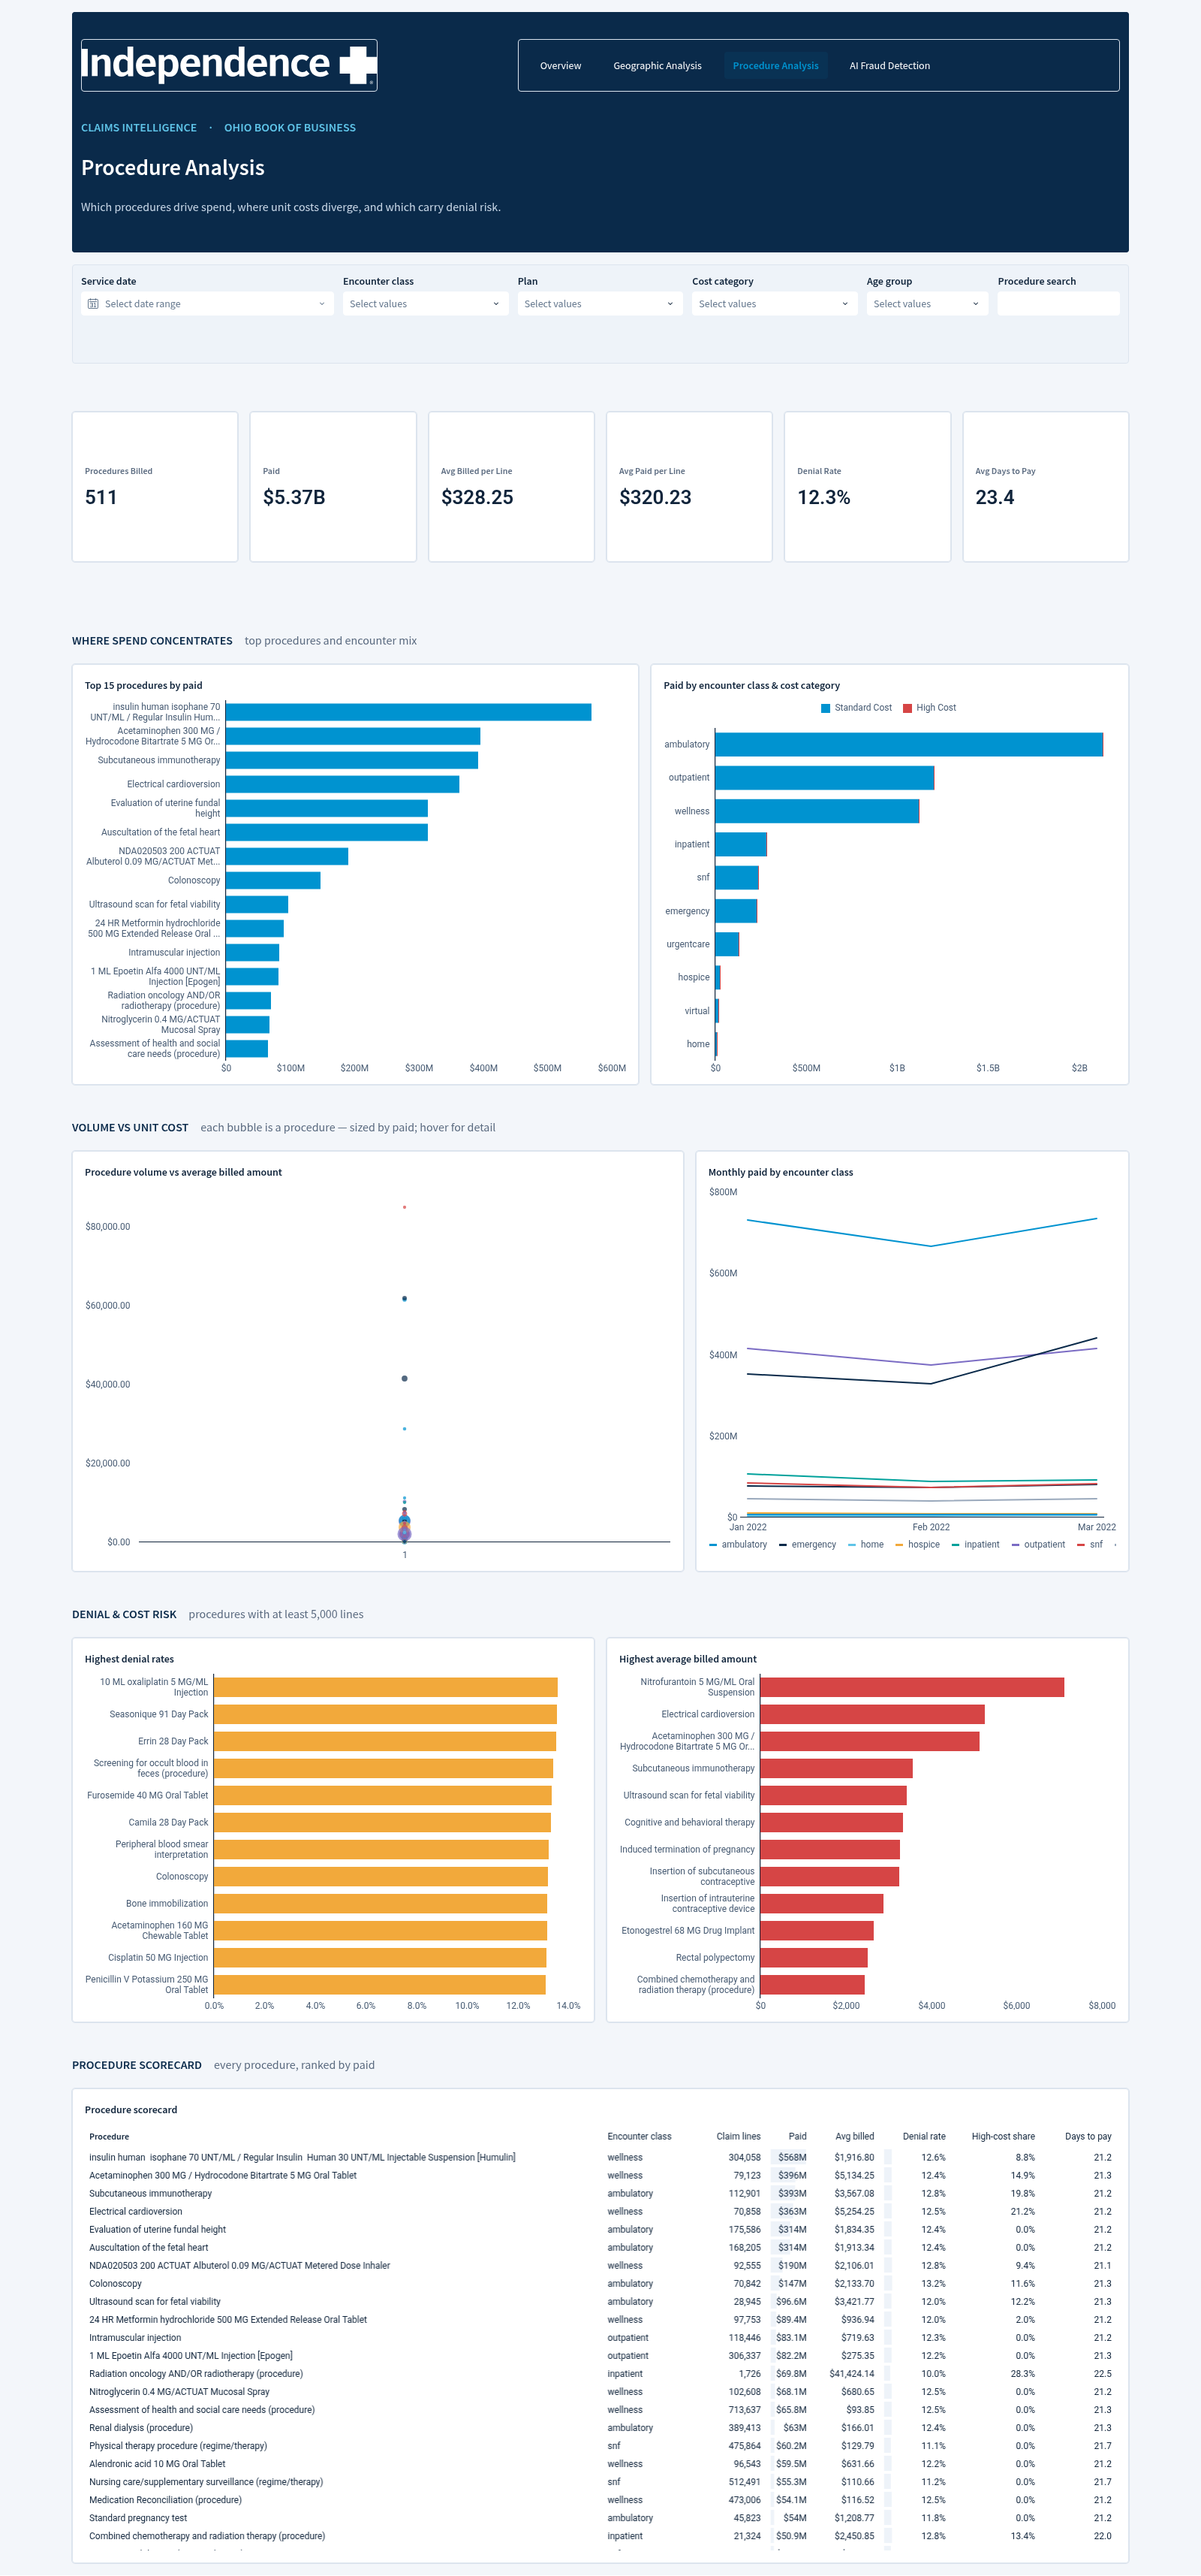
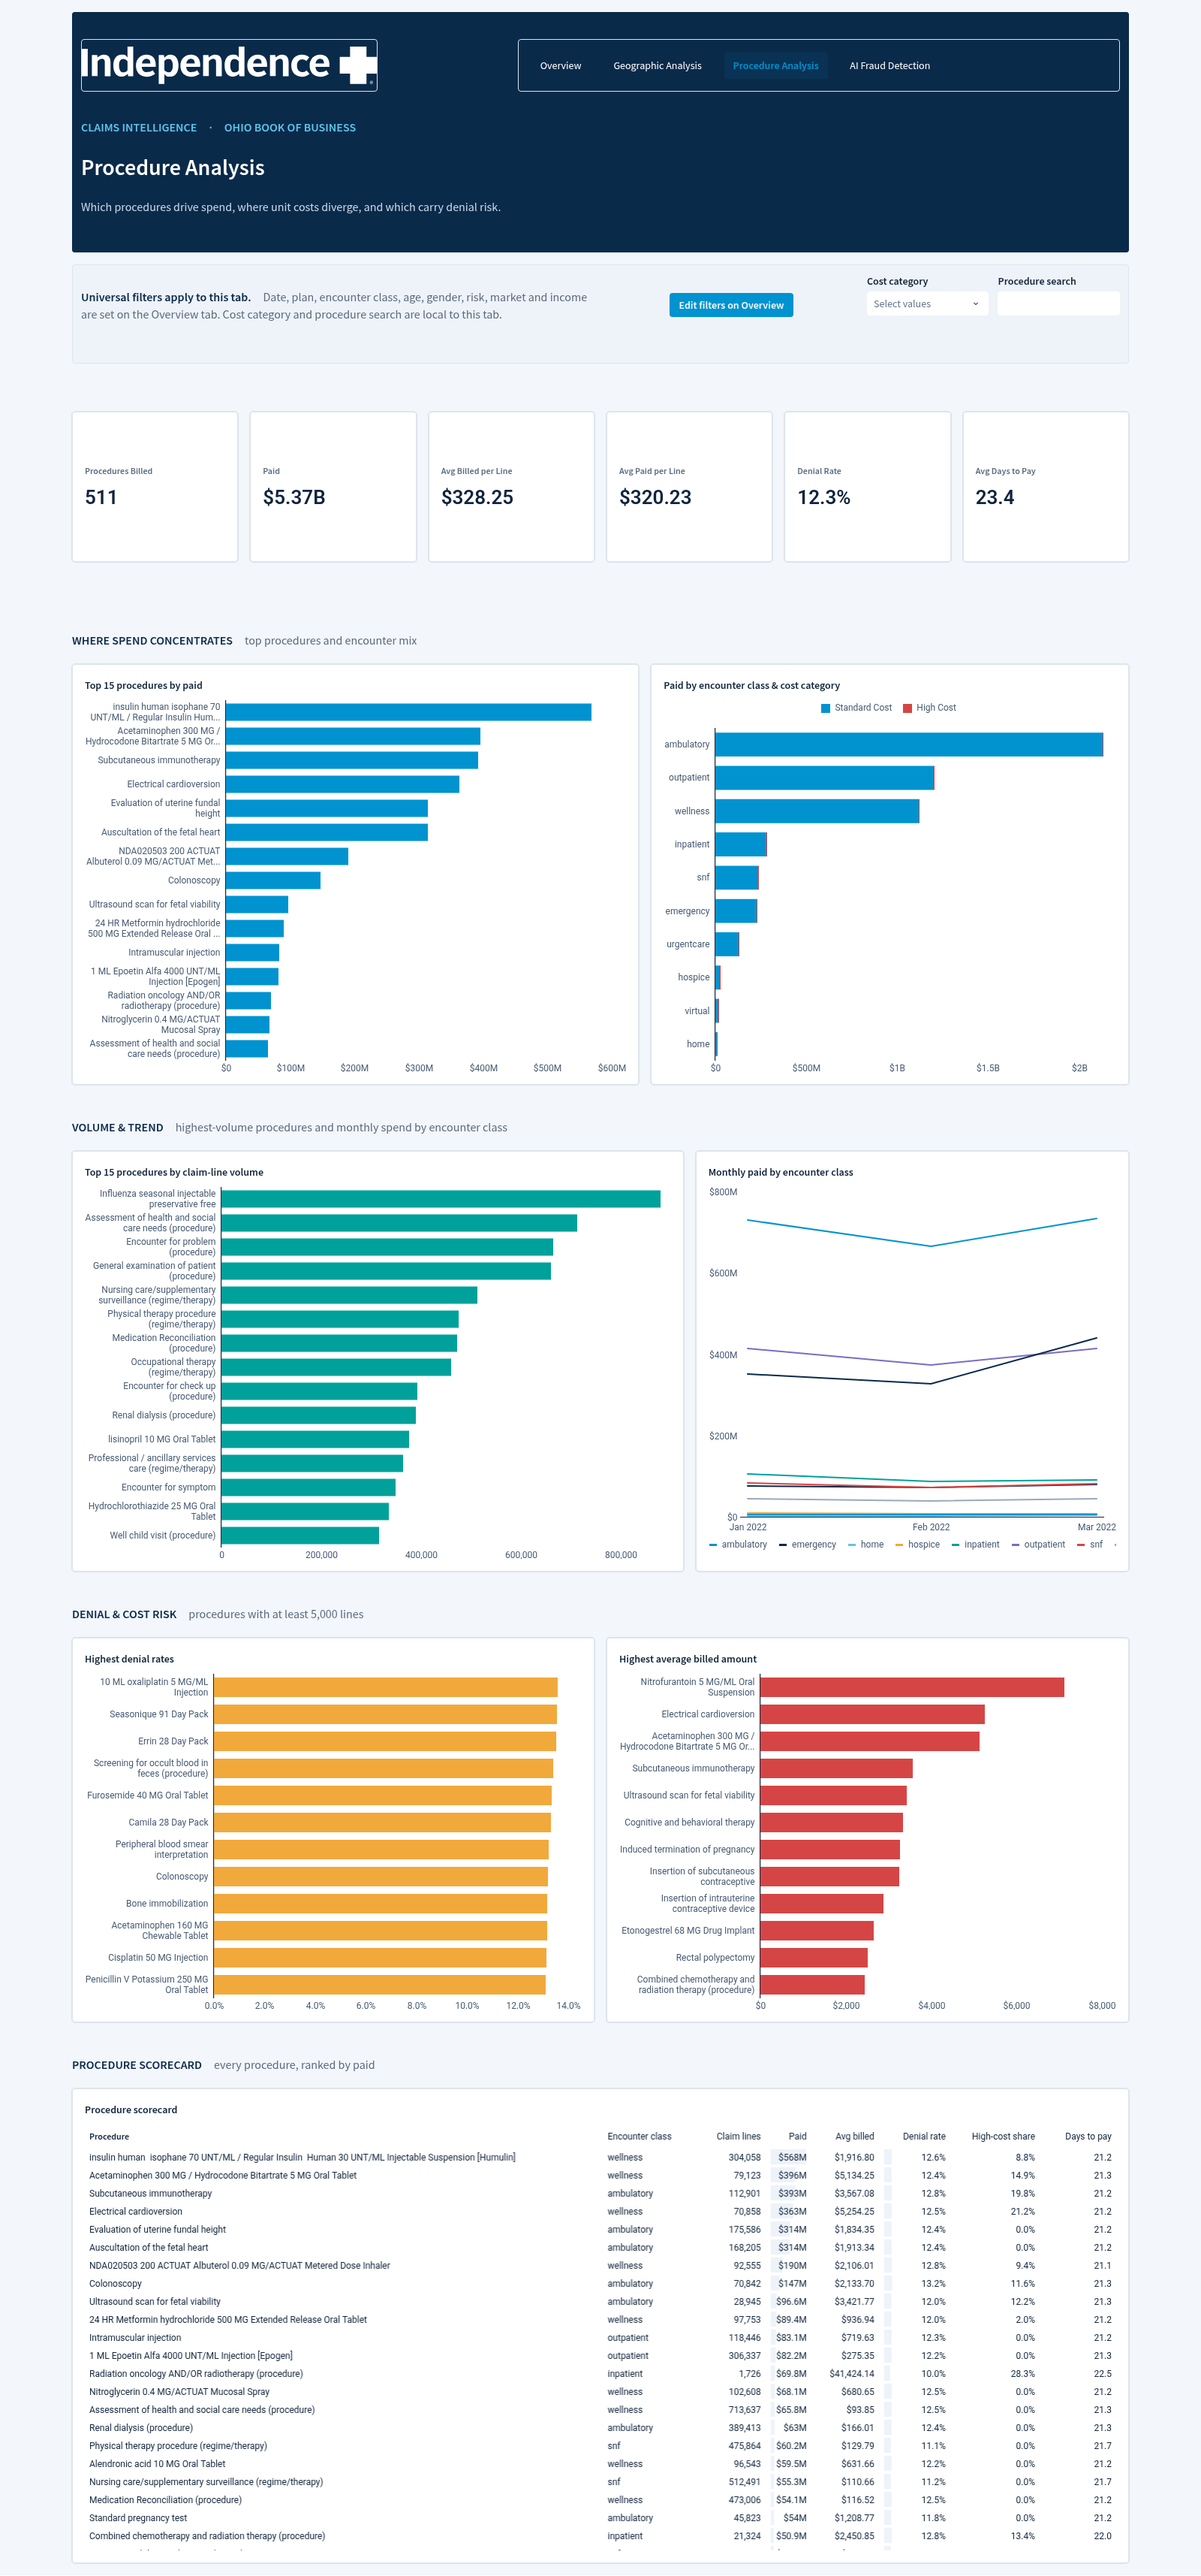
Make Overview filters universal across all tabs
Claude-Session: https://claude.ai/code/session_01UPp2bGsdh8tCcg418XPY5Y

diff --git a/ibx/build_ibx.py b/ibx/build_ibx.py
@@ -416,17 +416,41 @@ def place(node, r0, r1):
     return node
 
 
+
+def univ(key):
+    """A universal filter targets the same dimension on every page-scoped table."""
+    return [("t-ov", "o_" + key), ("t-geo", "g_" + key), ("t-proc", "p_" + key), ("t-fr", "f_" + key)]
+
+
+def local_bar(n, note, extra=(), rows=(13, 18)):
+    """Non-Overview tabs: universal filters live on Overview; show a pointer + page-local controls."""
+    add(text("note-%d" % n, '<span style="color:%s">**Universal filters apply to this tab.**</span>　<span style="color:%s">'
+             'Date, plan, encounter class, age, gender, risk, market and income are set on the Overview tab. %s</span>' % (NAVY, MUTED, note),
+             verticalAlign="center"))
+    add(button("b-edit-filters-%d" % n, "Edit filters on Overview", [{"effect": "navigate", "target": {"type": "page", "page": PG_OV}}],
+               bg=BLUE))
+    kids = [(None, "note-%d" % n, 1, 13, 1, 5), (None, "b-edit-filters-%d" % n, 13, 19 if extra else 25, 1, 5)]
+    add(container("flt-%d" % n, bg=CARD_ALT))
+    out = [el("note-%d" % n, 1, 13, 1, 5), el("b-edit-filters-%d" % n, 13, 19 if extra else 25, 1, 5)]
+    for ctl, c0, c1, r0, r1 in extra:
+        CTL.append(ctl)
+        out.append(el(ctl["id"], c0, c1, r0, r1))
+    return place(box("flt-%d" % n, 1, 25, 0, 0, out), *rows)
+
 # ====================================================================== PAGE 1 -- Overview
 def page_overview():
-    nodes = [header(1, "Claims Overview", "Spend, utilization and denials across Independence's Ohio membership — filter once, everything responds.")]
+    nodes = [header(1, "Claims Overview", "Spend, utilization and denials across Independence's Ohio membership — these filters drive every tab.")]
     T, S = OV, "t-ov"
+    S0 = "t-ov"
     ctls = [
-        (ctl_date("c-ov-date", "ov_date", "Service date", [(S, "o_sdate")]), 1, 7, 1, 5),
-        (ctl_list("c-ov-plan", "ov_plan", "Plan", S, "o_plan", [(S, "o_plan")]), 7, 11, 1, 5),
-        (ctl_list("c-ov-class", "ov_class", "Encounter class", S, "o_eclass", [(S, "o_eclass")]), 11, 15, 1, 5),
-        (ctl_list("c-ov-age", "ov_age", "Age group", S, "o_ageg", [(S, "o_ageg")]), 15, 19, 1, 5),
-        (ctl_list("c-ov-gender", "ov_gender", "Gender", S, "o_gender", [(S, "o_gender")]), 19, 22, 1, 5),
-        (ctl_list("c-ov-risk", "ov_risk", "Risk score", S, "o_risk", [(S, "o_risk")]), 22, 25, 1, 5),
+        (ctl_date("c-ov-date", "ov_date", "Service date", univ("sdate")), 1, 6, 1, 5),
+        (ctl_list("c-ov-plan", "ov_plan", "Plan", S0, "o_plan", univ("plan")), 6, 9, 1, 5),
+        (ctl_list("c-ov-class", "ov_class", "Encounter class", S0, "o_eclass", univ("eclass")), 9, 12, 1, 5),
+        (ctl_list("c-ov-age", "ov_age", "Age group", S0, "o_ageg", univ("ageg")), 12, 15, 1, 5),
+        (ctl_list("c-ov-gender", "ov_gender", "Gender", S0, "o_gender", univ("gender")), 15, 17, 1, 5),
+        (ctl_list("c-ov-risk", "ov_risk", "Risk score", S0, "o_risk", univ("risk")), 17, 19, 1, 5),
+        (ctl_list("c-ov-mkt", "ov_mkt", "Member market", S0, "o_market", univ("market")), 19, 22, 1, 5),
+        (ctl_list("c-ov-inc", "ov_inc", "Income quartile", S0, "o_incq", univ("incq")), 22, 25, 1, 5),
     ]
     nodes.append(place(filter_bar(1, ctls), 13, 18))
 
@@ -532,15 +556,7 @@ def geo_metric(tbl):
 def page_geo():
     nodes = [header(2, "Geographic Analysis", "Where Ohio members live, where they get care, and where cost and denials concentrate.")]
     T, S = GEO, "t-geo"
-    ctls = [
-        (ctl_date("c-g-date", "g_date", "Service date", [(S, "g_sdate")]), 1, 7, 1, 5),
-        (ctl_list("c-g-mkt", "g_mkt", "Member market", S, "g_market", [(S, "g_market")]), 7, 11, 1, 5),
-        (ctl_list("c-g-plan", "g_plan", "Plan", S, "g_plan", [(S, "g_plan")]), 11, 15, 1, 5),
-        (ctl_list("c-g-inc", "g_inc", "Income quartile", S, "g_incq", [(S, "g_incq")]), 15, 19, 1, 5),
-        (ctl_list("c-g-age", "g_age", "Age group", S, "g_ageg", [(S, "g_ageg")]), 19, 22, 1, 5),
-        (ctl_list("c-g-class", "g_class", "Encounter class", S, "g_eclass", [(S, "g_eclass")]), 22, 25, 1, 5),
-    ]
-    nodes.append(place(filter_bar(2, ctls), 13, 18))
+    nodes.append(local_bar(2, "Use the map metric selector below to change what the map and rankings show."))
 
     k = [
         ("g-k1", "Paid", "Sum(%s)" % R(T, "Paid Amount"), MONEY_S, "higher"),
@@ -649,15 +665,9 @@ def page_geo():
 def page_proc():
     nodes = [header(3, "Procedure Analysis", "Which procedures drive spend, where unit costs diverge, and which carry denial risk.")]
     T, S = PRC, "t-proc"
-    ctls = [
-        (ctl_date("c-p-date", "p_date", "Service date", [(S, "p_sdate")]), 1, 7, 1, 5),
-        (ctl_list("c-p-class", "p_class", "Encounter class", S, "p_eclass", [(S, "p_eclass")]), 7, 11, 1, 5),
-        (ctl_list("c-p-plan", "p_plan", "Plan", S, "p_plan", [(S, "p_plan")]), 11, 15, 1, 5),
-        (ctl_list("c-p-cost", "p_cost", "Cost category", S, "p_costcat", [(S, "p_costcat")]), 15, 19, 1, 5),
-        (ctl_list("c-p-age", "p_age", "Age group", S, "p_ageg", [(S, "p_ageg")]), 19, 22, 1, 5),
-        (ctl_text_filter("c-p-search", "p_search", "Procedure search", [(S, "p_proc")]), 22, 25, 1, 5),
-    ]
-    nodes.append(place(filter_bar(3, ctls), 13, 18))
+    nodes.append(local_bar(3, "Cost category and procedure search are local to this tab.", [
+        (ctl_list("c-p-cost", "p_cost", "Cost category", S, "p_costcat", [(S, "p_costcat")]), 19, 22, 1, 5),
+        (ctl_text_filter("c-p-search", "p_search", "Procedure search", [(S, "p_proc")]), 22, 25, 1, 5)]))
     k = [
         ("p-k1", "Procedures Billed", "CountDistinct(%s)" % R(T, "Procedure Code"), INT, "higher"),
         ("p-k2", "Paid", "Sum(%s)" % R(T, "Paid Amount"), MONEY_S, "higher"),
@@ -741,16 +751,16 @@ def page_fraud():
     T, S = FRD, "t-fr"
     # --- detection controls --------------------------------------------------------------------
     ctls = [
-        (ctl_date("c-f-date", "f_date", "Service date", [(S, "f_sdate")]), 1, 7, 1, 5),
-        (ctl_list("c-f-plan", "f_plan", "Plan", S, "f_plan", [(S, "f_plan")]), 7, 11, 1, 5),
-        (ctl_list("c-f-class", "f_class", "Encounter class", S, "f_eclass", [(S, "f_eclass")]), 11, 15, 1, 5),
-        (ctl_list("c-f-mkt", "f_mkt", "Facility market", S, "f_fmarket", [(S, "f_fmarket")]), 15, 19, 1, 5),
         (ctl_text_filter("c-f-search", "f_search", "Provider search", [(S, "f_pname")]), 19, 25, 1, 5),
         (ctl_slider("c-f-minlines", "min_lines", "Min claim lines to score a provider", 50, 2000, 50, 200), 1, 9, 6, 10),
         (ctl_slider("c-f-ext", "ext_mult", "Extreme cost = × procedure average", 1.5, 10, 0.5, 2.5), 9, 17, 6, 10),
         (ctl_slider("c-f-alert", "alert_score", "Critical alert score", 20, 80, 5, 40), 17, 25, 6, 10),
     ]
-    nodes.append(place(filter_bar(4, ctls), 13, 24))
+    add(text("note-4", '<span style="color:%s">**Universal filters apply to this tab.**</span>　<span style="color:%s">Set date, plan, encounter class, age, gender, risk, market and income on the Overview tab; detection thresholds below are local.</span>' % (NAVY, MUTED), verticalAlign="center"))
+    add(button("b-edit-filters-4", "Edit filters on Overview", [{"effect": "navigate", "target": {"type": "page", "page": PG_OV}}], bg=BLUE))
+    fb = filter_bar(4, ctls)
+    fb.kids += [el("note-4", 1, 13, 1, 5), el("b-edit-filters-4", 13, 19, 1, 5)]
+    nodes.append(place(fb, 13, 24))
 
     PRt = PR
     k = [
